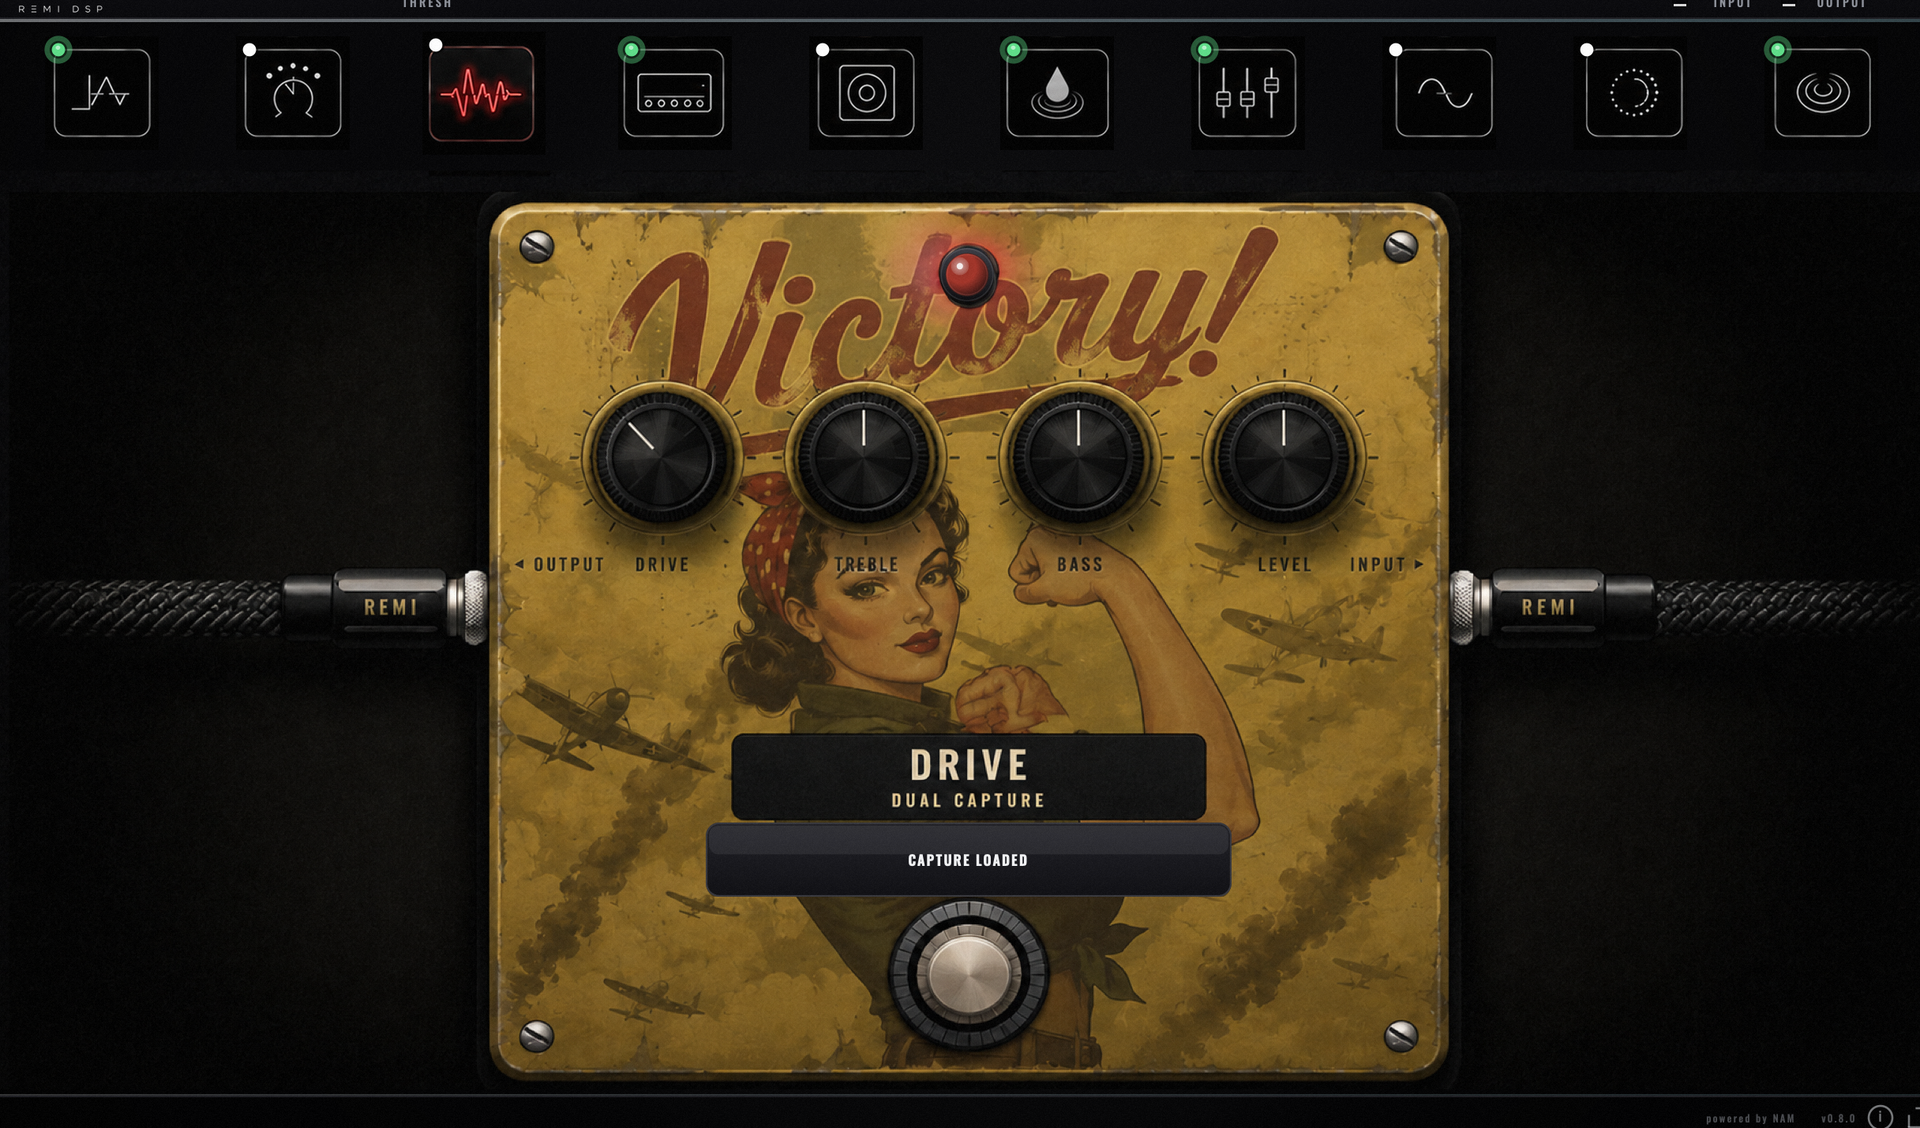
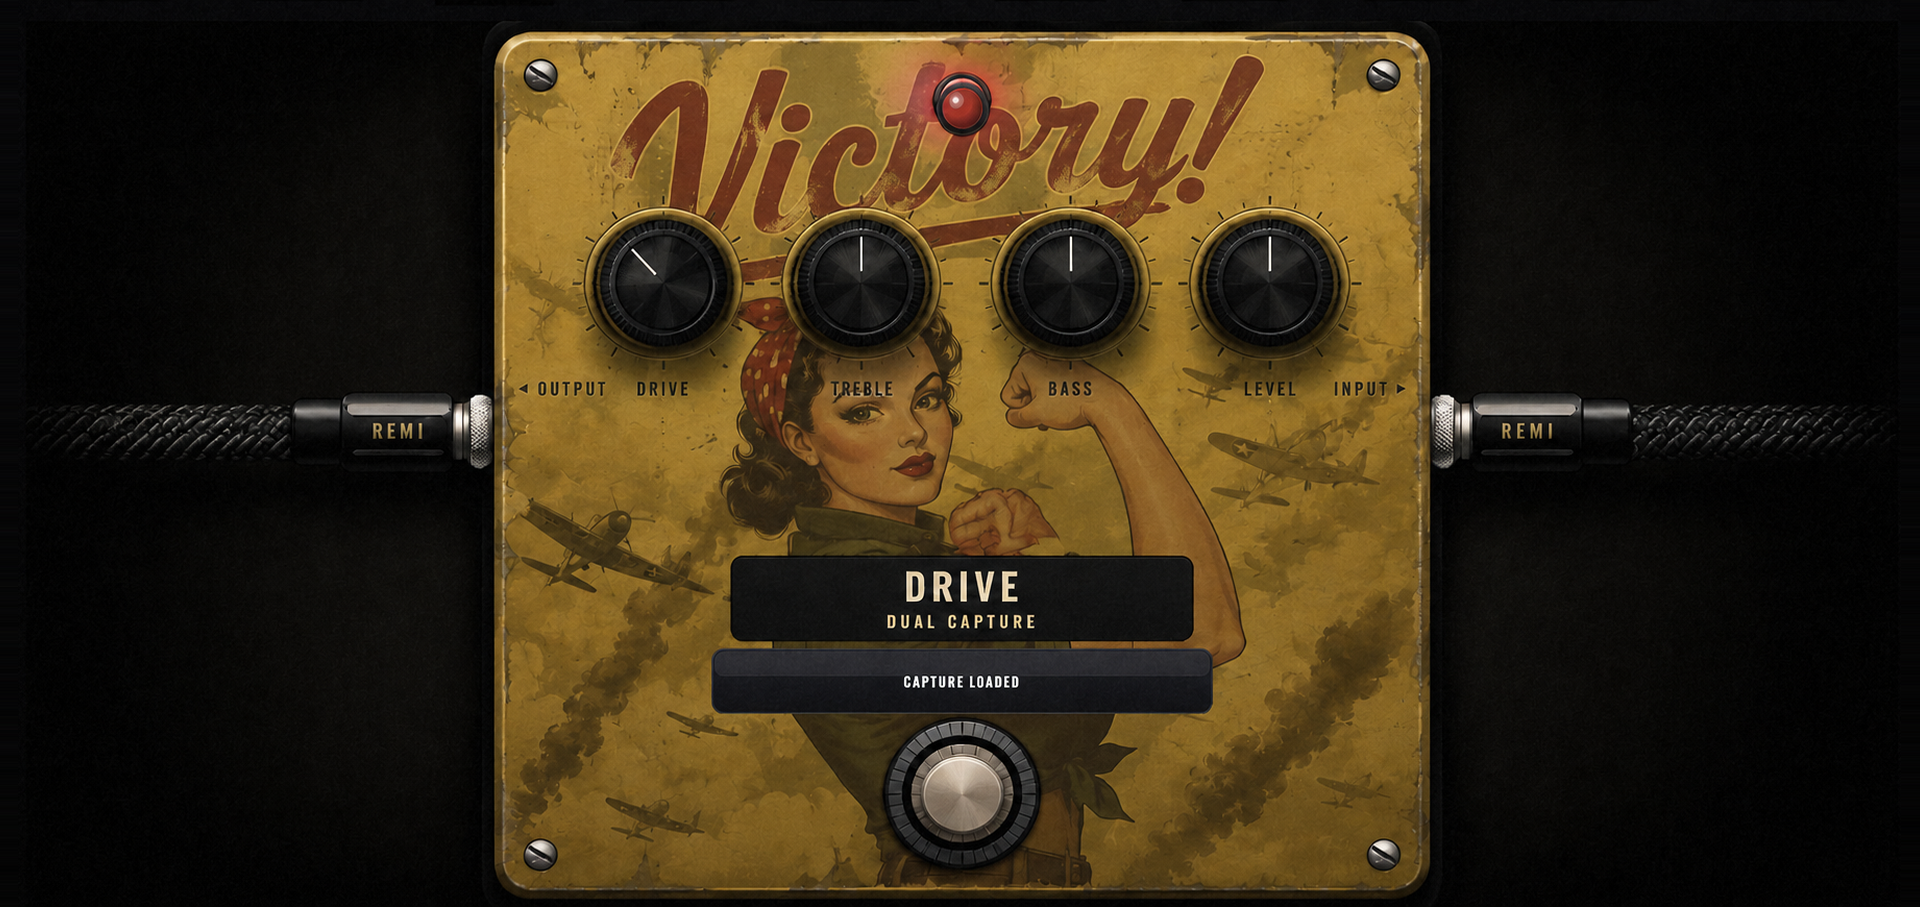
Drive card: build it from the face art like its neighbours, not a screenshot
The reshoot was cropped out of an editor screenshot, so it dragged the module
icon ribbon into frame with it — chrome none of the other pedals show.

Chorus, delay and sauce turn out to be the face art itself: their enclosure
boxes match assets/ui/png/pedal_*.png to within a few thousandths of the frame.
Doing the same for the drive removes the ribbon by construction. The art is
fitted by height so the footswitch stays in frame, then the side margins are
edge-replicated — the cable and its backdrop run horizontally, so extending the
edge column is invisible.

Back to the row's shared 1920x907. The enclosure reads slightly narrower than
its neighbours because the redrawn print is a wider image with a smaller
enclosure inside it; vertical fill (0.94) sits right in the middle of chorus
(0.93), delay (0.92) and sauce (0.95).

diff --git a/index.html b/index.html
@@ -470,7 +470,7 @@
     <div class="board__viewport">
       <div class="board__track" id="boardTrack">
         <article class="pcard" style="--tint:#d2a43a" data-card>
-          <div class="pcard__img"><img src="assets/img/pedal.webp" width="1920" height="1128" loading="lazy" alt="REMI DSP Drive pedal — Victory! gold enclosure with drive, treble, bass and level" /></div>
+          <div class="pcard__img"><img src="assets/img/pedal.webp" width="1920" height="907" loading="lazy" alt="REMI DSP Drive pedal — Victory! gold enclosure with drive, treble, bass and level" /></div>
           <div class="pcard__meta">
             <span class="pcard__no led">01</span>
             <h3>Drive</h3>
